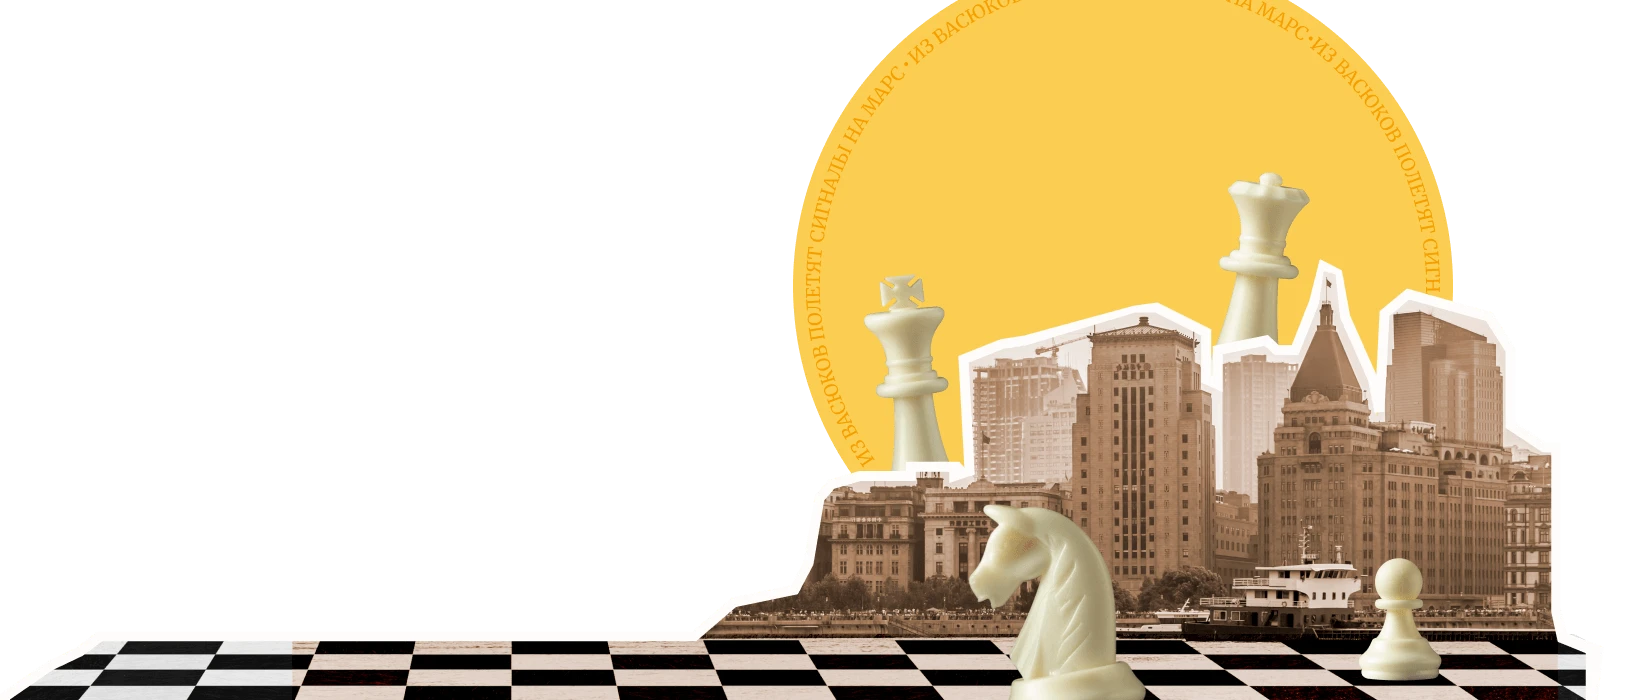
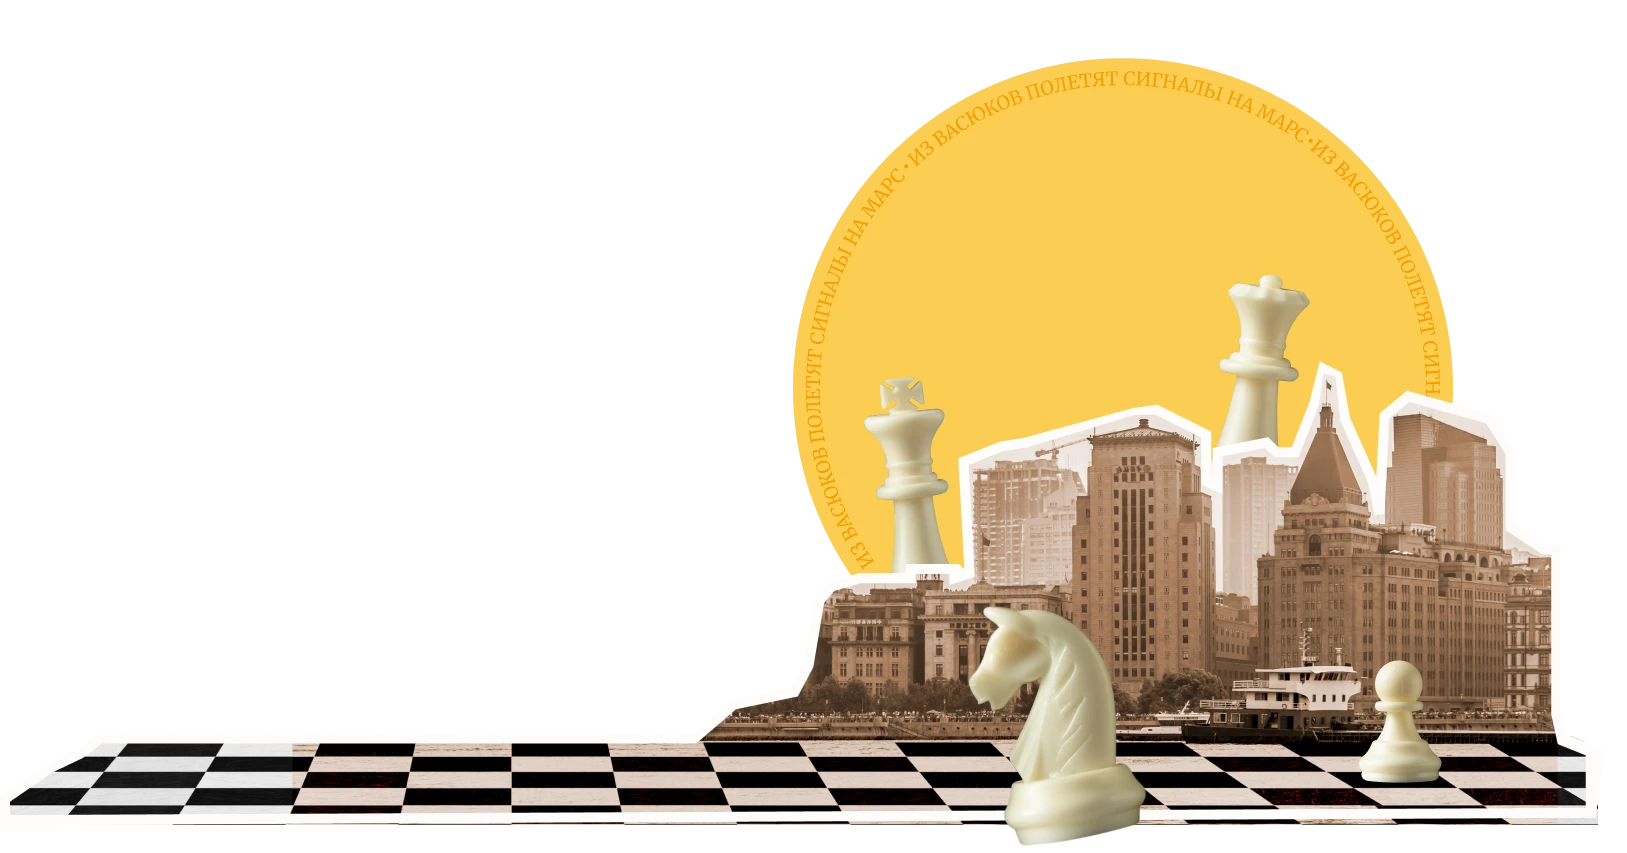
fix: details full image

Changed region(s): [[0.0, 0.0, 0.9834, 1.0]]

diff --git a/css/style.css b/css/style.css
@@ -48,6 +48,7 @@ a {
 .hero {
     position: relative;
     background-color: #E9DED4;
+    overflow: hidden;
 }
 
 .hero::before {
@@ -72,8 +73,8 @@ a {
 
 .hero__decoration {
     position: absolute;
-    height: 100%;
-    bottom: 0;
+    height: 122%;
+    bottom: -7%;
     left: 50%;
     transform: translateX(-50%);
     object-fit: cover;

diff --git a/css/adaptive.css b/css/adaptive.css
@@ -59,8 +59,8 @@
     }
 
     .hero__decoration {
-        height: 45.5%;
-        object-position: calc(50% - 150px) center;
+        height: 54%;
+        bottom: -3%;
     }
 
     .hero__logo {
